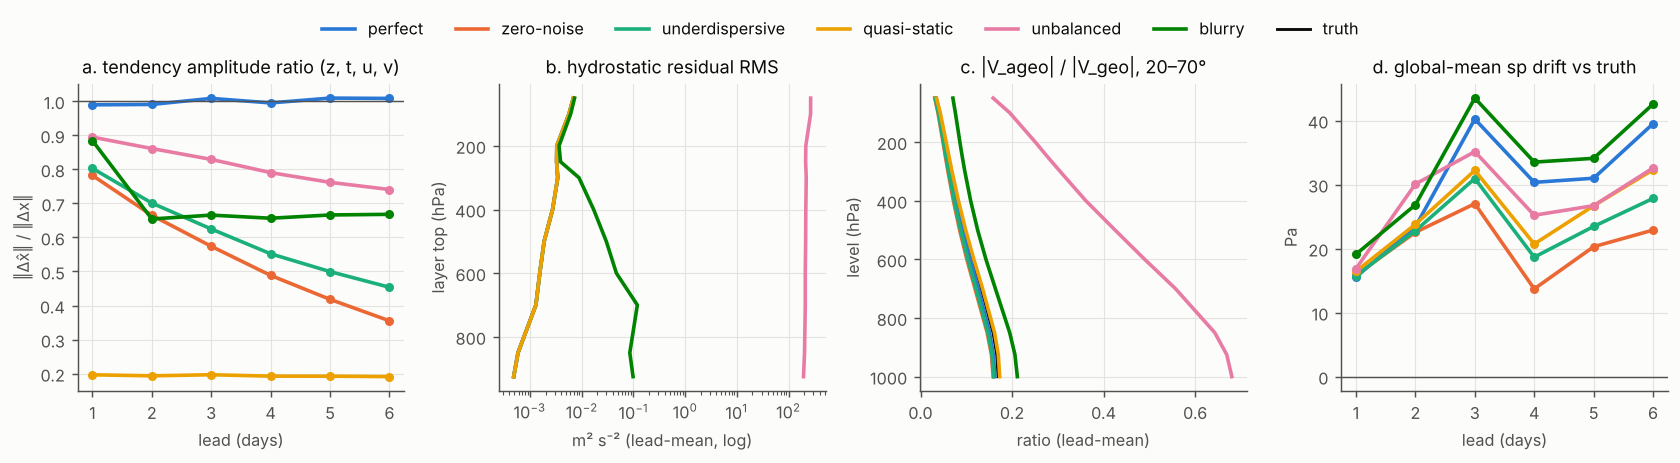
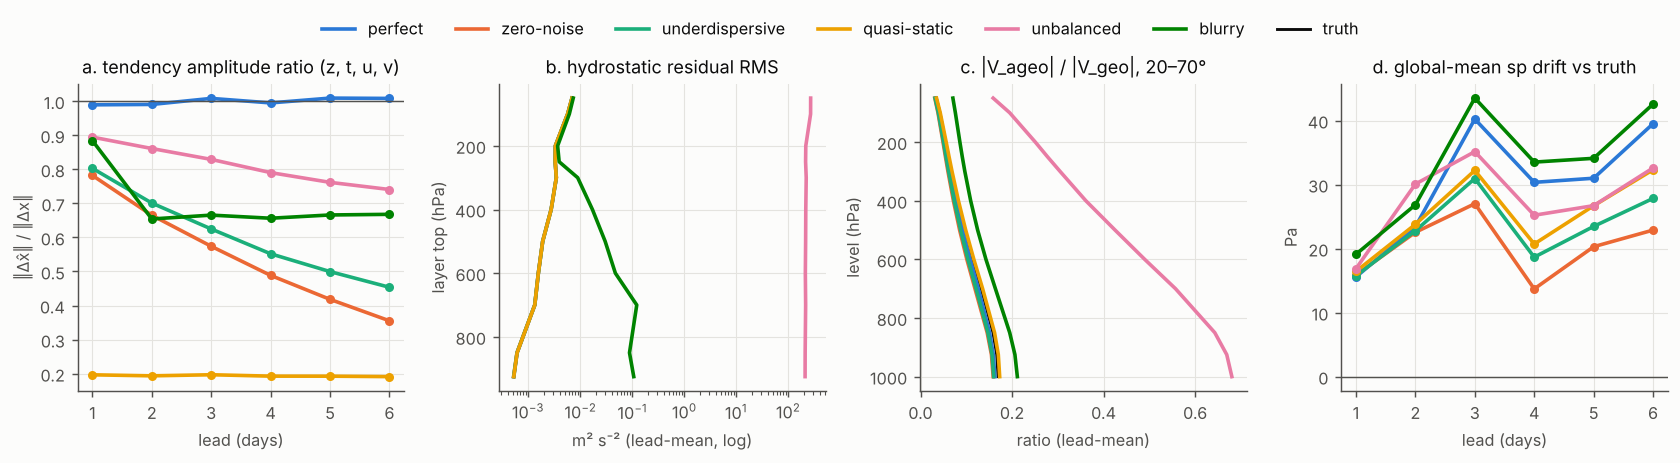
Eval: mask below-ground points out of hydrostatic RMS, stream climatology per year, reorder forecast channels
- hydrostatic_residual excludes subsurface points from the area-weighted
  mean (was counted as zero residual) and uses the truth's sp as a common
  mask for all models.
- climatology_from_kai_dir accumulates day-of-year sums per file instead of
  loading all training years (~90 GB for 1980-2011).
- evaluate.py checks each contract channel appears once and reorders by the
  file's channel coordinate (KAI out_channels may be permuted).

Claude-Session: https://claude.ai/code/session_01PEZLvnWPtceJi7hGf7tcAs

Changed region(s): [[0.3095, 0.2117, 0.3714, 0.6652], [0.3095, 0.8467, 0.4643, 0.9071], [0.4643, 0.7862, 0.4952, 0.8164]]

diff --git a/tests/test_eval.py b/tests/test_eval.py
@@ -78,7 +78,7 @@ def test_spectral_ratio_detects_blur(world):
     assert float(physics.spectral_ratio(b, truth).mean()) < 0.5
 
 
-def _write_forecast(path, x, ic_index, member):
+def _write_forecast(path, x, ic_index, member, channel=None):
     with nc.Dataset(path, "w") as d:
         d.createDimension("initial_condition", x.shape[0])
         d.createDimension("lead_time", x.shape[1])
@@ -90,7 +90,7 @@ def _write_forecast(path, x, ic_index, member):
             d.createDimension(n, s)
         d.createVariable("initial_condition", "i4", ("initial_condition",))[:] = ic_index
         d.createVariable("lead_time", "i4", ("lead_time",))[:] = np.arange(x.shape[1])
-        d.createVariable("channel", "i4", ("channel",))[:] = np.arange(x.shape[-3])
+        d.createVariable("channel", "i4", ("channel",))[:] = np.arange(x.shape[-3]) if channel is None else channel
         d.createVariable("forecast", "f4", tuple(dims) + ("channel", "lat", "lon"))[:] = x
 
 
@@ -107,13 +107,41 @@ def test_cli_on_kai_format_files(tmp_path):
     ens = pers[:, :, None] + 0.1 * contract.REFERENCE_STD[:, None, None] * rng.standard_normal((2, 4, 3) + f.shape[1:])
     _write_forecast(tmp_path / "det.nc", pers, ic, False)
     _write_forecast(tmp_path / "ens.nc", ens.astype(np.float32), ic, True)
+    perm = np.random.default_rng(1).permutation(contract.N_CHANNELS)  # KAI out_channels in another order
+    _write_forecast(tmp_path / "shuffled.nc", pers[:, :, perm], ic, False, channel=perm)
     out = str(tmp_path / "eval")
     evaluate(["score", "--data-dir", data, "--year", "2020", "--forecast", f"det={tmp_path / 'det.nc'}",
-              "--forecast", f"ens={tmp_path / 'ens.nc'}", "--climatology", clim, "--out", out])
+              "--forecast", f"ens={tmp_path / 'ens.nc'}", "--forecast", f"shuffled={tmp_path / 'shuffled.nc'}", "--climatology", clim, "--out", out])
     df = pd.read_csv(os.path.join(out, "scores.csv"))
     # A forecast that equals persistence must score exactly like the persistence baseline.
     a = df[(df.model == "det") & (df.metric == "rmse")].value.values
     b = df[(df.model == "persistence") & (df.metric == "rmse")].value.values
     assert np.allclose(a, b)
+    c = df[(df.model == "shuffled") & (df.metric == "rmse")].value.values
+    assert np.allclose(a, c)
     assert {"acc", "crps", "ssr", "rmsb"} <= set(df.metric)
     assert len(os.listdir(os.path.join(out, "figures"))) >= 6
+
+
+def test_streamed_climatology_matches_wb2_on_all_years(tmp_path):
+    from pgcfm.eval import baselines
+
+    data = str(tmp_path / "era5")
+    make_synthetic(["--out", data, "--years", "2018", "2019", "--days", "5"])
+    out = str(tmp_path / "clim.nc")
+    baselines.climatology_from_kai_dir(data, [2018, 2019], out, window_size=3)
+    paths = [os.path.join(data, f"{y}.nc") for y in (2018, 2019)]
+    ref = baselines.daily_climatology(baselines.kai_years_to_dataset(paths), window_size=3)
+    with xr.open_dataset(out) as got:
+        xr.testing.assert_allclose(got.load(), ref, rtol=1e-5)
+
+
+def test_hydrostatic_mask_drops_below_ground_points(world):
+    truth = _full(world.truth[:, 1:], False)
+    bad = world.truth[:, 1:].copy()
+    bad[:, :, contract.CHANNEL_INDEX["z1000"]] += 1e4  # only the 925-1000 layer is wrong
+    ds = _full(bad, False)
+    everywhere_low_sp = truth["surface_pressure"] * 0 + 95000.0  # 1000 hPa below ground everywhere
+    r = physics.hydrostatic_residual(ds, everywhere_low_sp)
+    assert bool(np.isnan(r.sel(layer=925)).all())  # no valid point: not counted as balanced
+    assert float(r.sel(layer=850).max()) < 1.0

diff --git a/pgcfm/eval/physics.py b/pgcfm/eval/physics.py
@@ -5,6 +5,8 @@ Geostrophic winds and zonal spectra use WeatherBench2's ``derived_variables``.
 Inputs are full WB2 datasets (``wb2.to_dataset``) with a ``level`` dim.
 """
 
+from typing import Optional
+
 import numpy as np
 import xarray as xr
 
@@ -18,8 +20,8 @@ def _members_mean(da: xr.DataArray) -> xr.DataArray:
     return da.mean(REALIZATION) if REALIZATION in da.dims else da
 
 
-def _wmean(ds, region=None):
-    return metrics._spatial_average(ds, region=region, skipna=False)
+def _wmean(ds, region=None, skipna=False):
+    return metrics._spatial_average(ds, region=region, skipna=skipna)
 
 
 # ----------------------------------------------------------------------
@@ -49,12 +51,14 @@ def tendency_amplitude_ratio(forecast: xr.Dataset, truth: xr.Dataset, initial: x
 # ----------------------------------------------------------------------
 # Hydrostatic balance (primitive equation 4 in NeuralGCM / PG-CFM eq. 8)
 # ----------------------------------------------------------------------
-def hydrostatic_residual(ds: xr.Dataset) -> xr.DataArray:
+def hydrostatic_residual(ds: xr.Dataset, surface_pressure: Optional[xr.DataArray] = None) -> xr.DataArray:
     """Area-weighted RMS of the discrete hypsometric residual per layer [m2 s-2].
 
     r_i = (Φ_i - Φ_{i+1}) - R_d * (Tv_i + Tv_{i+1})/2 * ln(p_{i+1}/p_i),
-    Tv = T (1 + 0.608 q). Layers whose lower level lies below the surface (p > sp)
-    are masked. Returns dims (..., layer) where layer = upper level in hPa.
+    Tv = T (1 + 0.608 q). Points whose lower level lies below the surface (p > sp)
+    are left out of the mean (numerator and area weights). Pass the truth's
+    ``surface_pressure`` so every model is averaged over the same mask;
+    otherwise ``ds``'s own sp is used. Returns dims (..., layer), layer = upper level in hPa.
     """
     z, T, q = ds["geopotential"], ds["temperature"], ds["specific_humidity"]
     Tv = T * (1 + 0.608 * q)
@@ -65,10 +69,11 @@ def hydrostatic_residual(ds: xr.Dataset) -> xr.DataArray:
     tv = 0.5 * (sel(Tv, up) + sel(Tv, lo))
     log_ratio = xr.DataArray(np.log(lo / up), dims="layer", coords={"layer": up})
     r = dz - C.r_dry * tv * log_ratio
-    if "surface_pressure" in ds:
+    sp = surface_pressure if surface_pressure is not None else ds.get("surface_pressure")
+    if sp is not None:
         p_lo = xr.DataArray(lo * 100.0, dims="layer", coords={"layer": up})
-        r = r.where(p_lo <= ds["surface_pressure"], 0.0)
-    rms = np.sqrt(_wmean(xr.Dataset({"r": r ** 2}))["r"].mean("init_time"))
+        r = r.where(p_lo <= sp)
+    rms = np.sqrt(_wmean(xr.Dataset({"r": r ** 2}), skipna=True)["r"].mean("init_time"))
     return rms.mean(REALIZATION) if REALIZATION in rms.dims else rms
 
 

diff --git a/pgcfm/eval/baselines.py b/pgcfm/eval/baselines.py
@@ -67,11 +67,26 @@ def daily_climatology(obs: xr.Dataset, window_size: int = 61, years: Optional[sl
 
 
 def climatology_from_kai_dir(data_dir: str, years: Sequence[int], out_path: str, window_size: int = 61) -> str:
+    """Same result as ``daily_climatology`` over ``years``, holding one year in memory at a time.
+
+    32 years x 67 channels at 121x240 is ~90 GB, so the day-of-year sums and counts
+    are accumulated per file and only the 366-day mean is smoothed (WB2 rolling window).
+    """
     paths = [os.path.join(data_dir, f"{y}.nc") for y in years]
     missing = [p for p in paths if not os.path.exists(p)]
     if missing:
         raise FileNotFoundError(missing)
-    clim = daily_climatology(kai_years_to_dataset(paths), window_size)
+    total = count = None
+    for p in paths:
+        grouped = kai_years_to_dataset([p]).groupby("time.dayofyear")
+        s, n = grouped.sum(), grouped.count()
+        if total is None:
+            total, count = s, n
+        else:
+            total = sum(xr.align(total, s, join="outer", fill_value=0.0))
+            count = sum(xr.align(count, n, join="outer", fill_value=0))
+    mean = total / count
+    clim = _wb2_utils().smooth_dayofyear_variable_with_rolling_window(mean, window_size)
     clim.to_netcdf(out_path)
     return out_path
 

diff --git a/scripts/evaluate.py b/scripts/evaluate.py
@@ -57,9 +57,11 @@ def cmd_score(a):
             ic_ref = f["ic_index"]
         elif not np.array_equal(ic_ref, f["ic_index"]):
             raise ValueError(f"{name}: initial conditions differ from the first forecast")
-        if len(f["channel"]) != contract.N_CHANNELS:
-            raise ValueError(f"{name}: needs all 67 channels, got {len(f['channel'])}")
-        x = f["forecast"][: a.max_ic]
+        ch = np.asarray(f["channel"])
+        if sorted(ch.tolist()) != list(range(contract.N_CHANNELS)):
+            raise ValueError(f"{name}: needs each of the 67 contract channels once, got {ch.tolist()}")
+        # KAI allows any out_channels order; put channels back in contract order.
+        x = np.take(f["forecast"][: a.max_ic], np.argsort(ch), axis=-3)
         forecasts[name] = x[:, 1:]  # drop lead 0 (= IC)
     ic_index = ic_ref[: a.max_ic]
     n_lead = next(iter(forecasts.values())).shape[1]

diff --git a/pgcfm/eval/suite.py b/pgcfm/eval/suite.py
@@ -51,6 +51,7 @@ def run_suite(
     maps = None
     truth_phys = truth_ds
     hydro["truth"] = physics.hydrostatic_residual(truth_phys).mean(LEAD)
+    truth_sp = truth_ds["surface_pressure"]
     geo["truth"] = physics.geostrophic_balance(truth_phys).mean(LEAD)
     spec["truth"] = physics.zonal_spectrum(truth_h["z500"].isel({LEAD: -1}))
 
@@ -77,7 +78,7 @@ def run_suite(
         smallscale[name] = physics.spectral_ratio(fh["z500"], truth_h["z500"])
         tr = physics.tendency_amplitude_ratio(fc[TEND_VARS], truth_ds[TEND_VARS], ic_full[TEND_VARS])
         tend[name] = tr.to_array().mean("variable")
-        hydro[name] = physics.hydrostatic_residual(fc).mean(LEAD)
+        hydro[name] = physics.hydrostatic_residual(fc, truth_sp).mean(LEAD)
         geo[name] = physics.geostrophic_balance(fc).mean(LEAD)
         drift[name] = physics.budget_drift(fc, truth_ds)["mean_sp_Pa"]
         del fc, fh

diff --git a/docs/step5_evaluation.md b/docs/step5_evaluation.md
@@ -73,8 +73,8 @@ PG-CFM ensemble은 `lead_time` 뒤에 `member` 차원을 추가합니다. 출력
 | zero-noise | **863** | **0.36** | 694 | – | 0.78 → 0.36 | 0.003 | 0.09 | 0.39 |
 | underdispersive | 870 | 0.35 | 577 | 0.32 | 0.80 → 0.45 | 0.003 | 0.09 | 0.46 |
 | quasi-static | 1227 | 0.00 | 819 | 0.30 | 0.20 → 0.19 | 0.003 | 0.10 | 0.53 |
-| unbalanced | 890 | 0.31 | 512 | 0.65 | 0.89 → 0.74 | **221** | **0.43** | 1.30 |
-| blurry | 907 | 0.26 | 499 | 0.83 | 0.88 → 0.67 | 0.039 | 0.13 | **0.15** |
+| unbalanced | 890 | 0.31 | 512 | 0.65 | 0.89 → 0.74 | **224** | **0.43** | 1.30 |
+| blurry | 907 | 0.26 | 499 | 0.83 | 0.88 → 0.67 | 0.040 | 0.13 | **0.15** |
 | persistence | 1325 | 0.01 | 1054 | – | 0 | – | – | – |
 | climatology | 927 | – | 745 | – | – | – | – | – |
 
@@ -92,7 +92,7 @@ PG-CFM ensemble은 `lead_time` 뒤에 `member` 차원을 추가합니다. 출력
 2. 같은 이유로 "PINN을 넣었더니 RMSE가 내려갔다"는 spread 붕괴(underdispersion)의 신호일 수 있습니다. 반드시 SSR과 tendency 비를 같이 봐야 합니다.
 
 ### B. CRPS와 SSR은 물리 균형 붕괴와 blur를 거의 못 본다 (가장 중요한 결과)
-3. **unbalanced**는 CRPS가 perfect보다 4%만 나쁘고 RMSE는 오히려 좋지만, 정역학 잔차가 7만 배(221 vs 0.003 m²/s²), 비지균/지균 비가 4배(0.43 vs 0.10)입니다.
+3. **unbalanced**는 CRPS가 perfect보다 4%만 나쁘고 RMSE는 오히려 좋지만, 정역학 잔차가 7만 배(224 vs 0.003 m²/s²), 비지균/지균 비가 4배(0.43 vs 0.10)입니다.
    즉 skill 점수만으로는 "physics guide가 효과가 있다"를 **보일 수도, 반박할 수도 없습니다**.
    → 논문 주장(물리 구성으로 예측력 향상)을 검증하려면 정역학·지균 진단과 PINN residual을 **skill과 같은 급의 결과**로 보고해야 합니다. 이 스위트는 그 표를 자동으로 만듭니다.
 4. **blurry**는 CRPS 1% 차이로 사실상 구별이 안 되고, 스펙트럼 비(0.15)에서만 잡힙니다. NeuralGCM이 스펙트럼을 따로 보고하는 이유와 같습니다.
